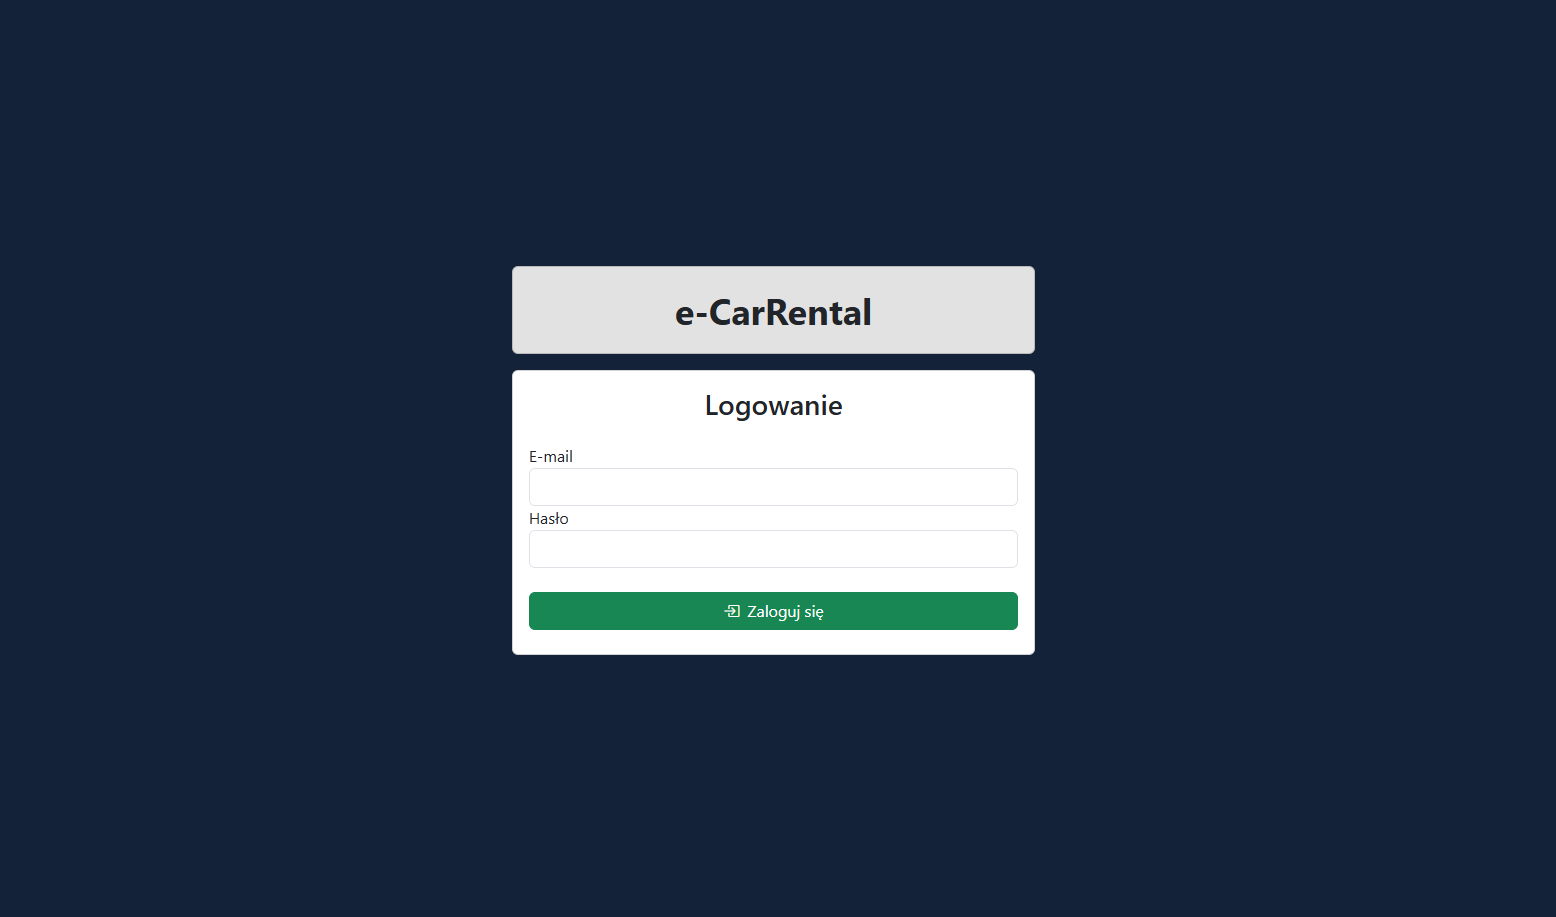
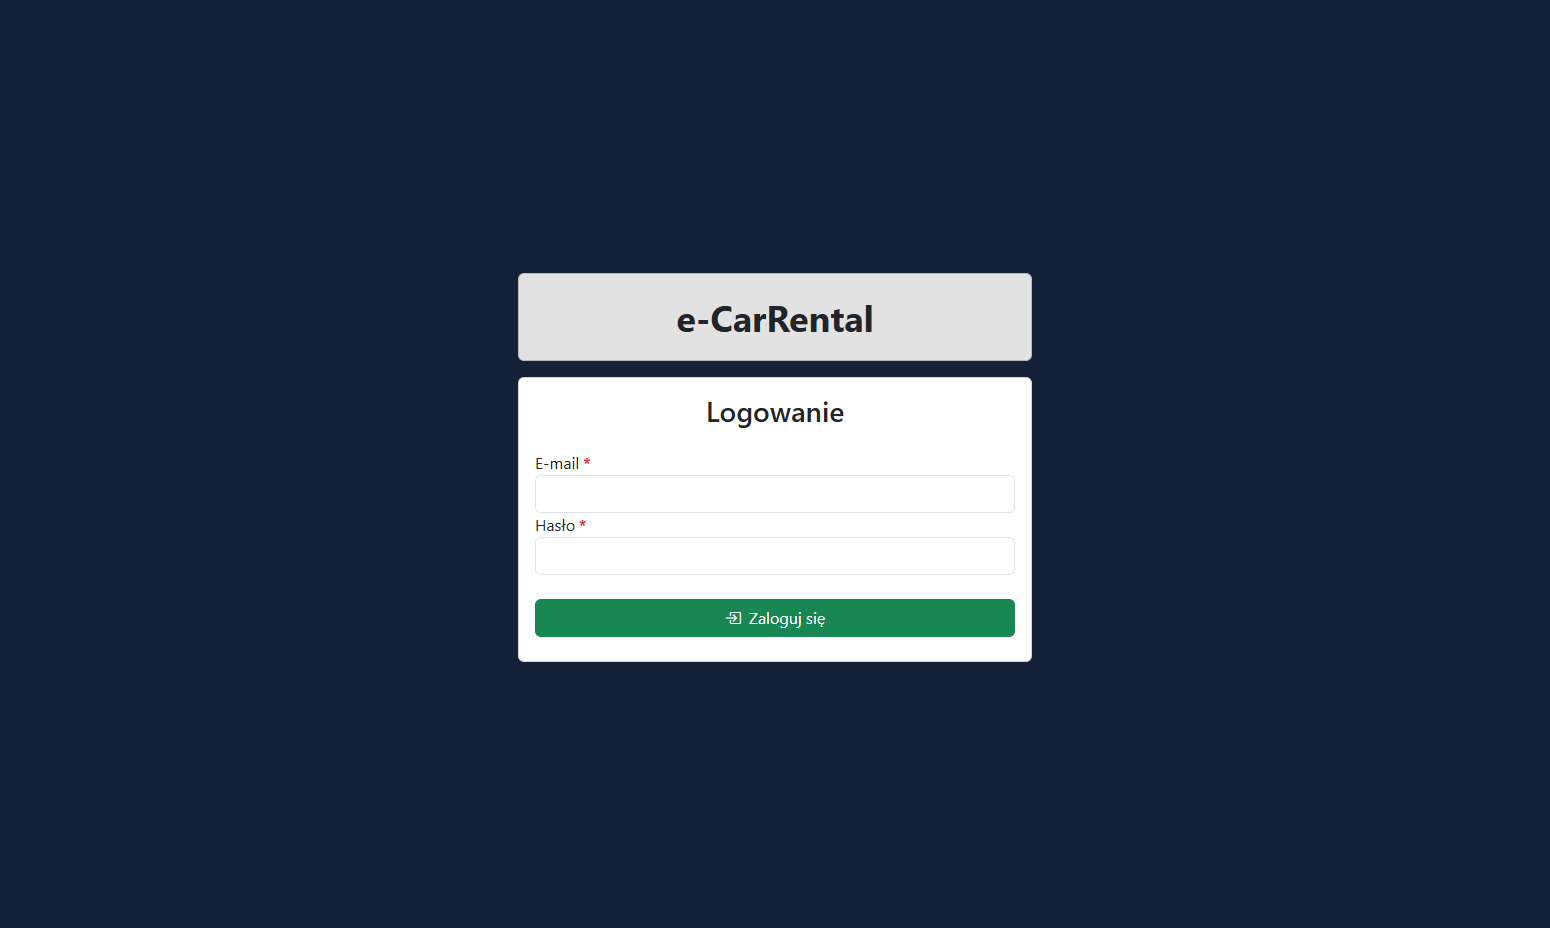
Readme file update.

Changed region(s): [[0.3097, 0.2748, 0.6503, 0.7023], [0.4645, 0.6412, 0.5265, 0.7023]]

diff --git a/e-CarRentalUI/src/app/components/login/login.component.html b/e-CarRentalUI/src/app/components/login/login.component.html
@@ -8,11 +8,11 @@
         <h3 class="card-title mb-4 text-center">{{'LOGINFORM.SIGNIN' | translate}}</h3>
         <form [formGroup]="loginForm" (ngSubmit)="onSubmit()">
           <div class="form-group">
-            <label for="email">{{'USERFORM.EMAIL' | translate}}</label>
+            <label for="email">{{'USERFORM.EMAIL' | translate}}</label><app-required></app-required>
             <input type="email" class="form-control" id="email" formControlName="email" required>
           </div>
           <div class="form-group">
-            <label for="password">{{'USERFORM.PASSWORD' | translate}}</label>
+            <label for="password">{{'USERFORM.PASSWORD' | translate}}</label><app-required></app-required>
             <input type="password" class="form-control" id="password" formControlName="password" required>
           </div>
           <button type="submit" class="btn btn-success w-100 mt-4 mb-2"><i class="bi bi-box-arrow-in-right me-2"></i>{{'LOGINFORM.LOGIN' | translate}}</button>
